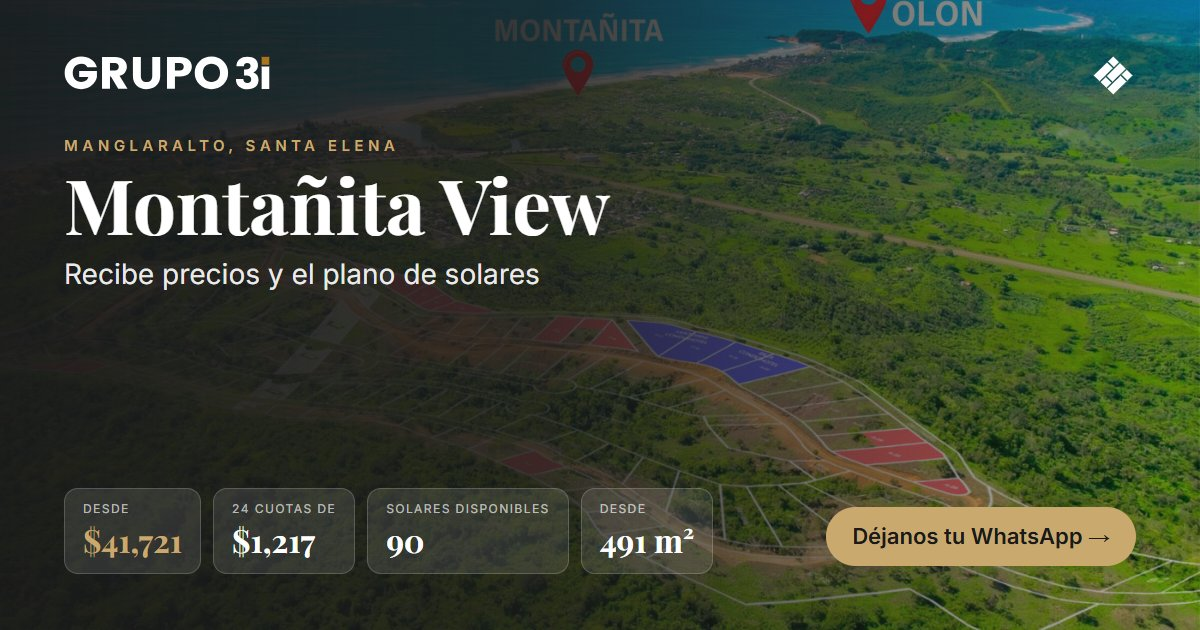
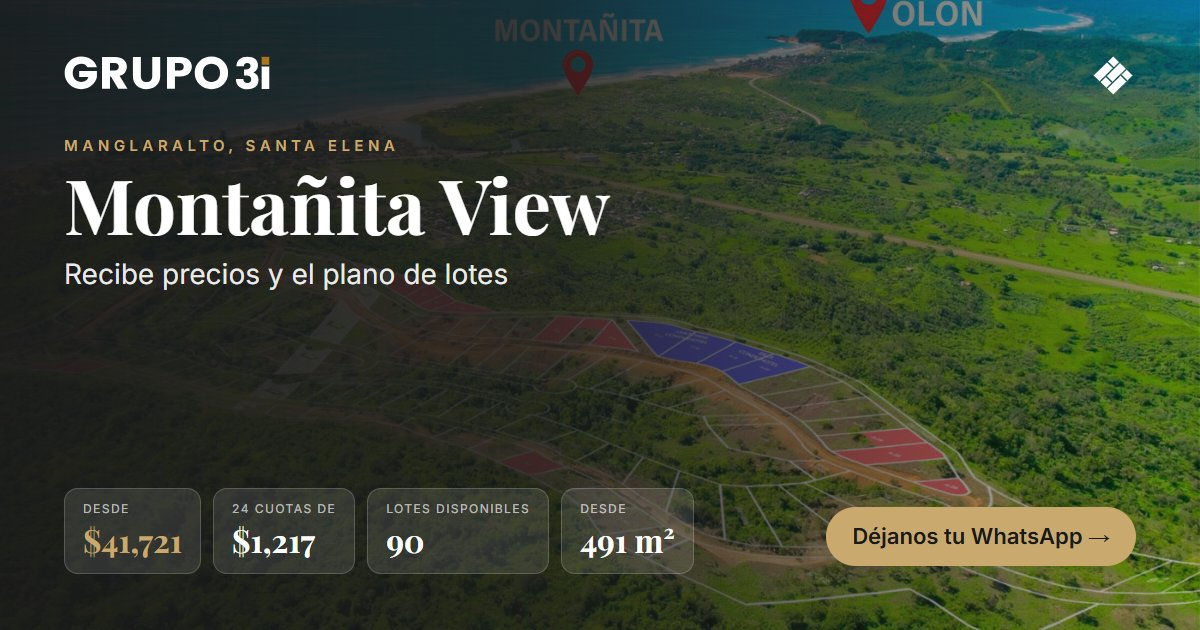
Lotes: título genérico del sitio y vistas previas de las páginas de aterrizaje

Changed region(s): [[0.3083, 0.754, 0.5858, 0.9349], [0.37, 0.4222, 0.4625, 0.4524], [0.5858, 0.7841, 0.6167, 0.8143]]

diff --git a/frontend/dist/index.html b/frontend/dist/index.html
@@ -14,7 +14,7 @@
     <title>Grupo 3i — Inversión inmobiliaria en la costa ecuatoriana</title>
     <meta
       name="description"
-      content="Propiedad fraccionada, solares con vista al mar y membresías de viaje en la costa ecuatoriana."
+      content="Propiedad fraccionada, lotes con vista al mar y membresías de viaje en la costa ecuatoriana."
     />
 
     <!-- Open Graph / WhatsApp / Facebook / LinkedIn — estático porque estos
@@ -25,7 +25,7 @@
     <meta property="og:title" content="Grupo 3i — Inversión inmobiliaria en la costa ecuatoriana" />
     <meta
       property="og:description"
-      content="Propiedad fraccionada, solares con vista al mar y membresías de viaje en la costa ecuatoriana."
+      content="Propiedad fraccionada, lotes con vista al mar y membresías de viaje en la costa ecuatoriana."
     />
     <meta property="og:image" content="https://grupo3i.com/images/og-cover.png" />
     <meta property="og:image:secure_url" content="https://grupo3i.com/images/og-cover.png" />
@@ -40,7 +40,7 @@
     <meta name="twitter:title" content="Grupo 3i — Inversión inmobiliaria en la costa ecuatoriana" />
     <meta
       name="twitter:description"
-      content="Propiedad fraccionada, solares con vista al mar y membresías de viaje en la costa ecuatoriana."
+      content="Propiedad fraccionada, lotes con vista al mar y membresías de viaje en la costa ecuatoriana."
     />
     <meta name="twitter:image" content="https://grupo3i.com/images/og-cover.png" />
 

diff --git a/frontend/index.html b/frontend/index.html
@@ -14,7 +14,7 @@
     <title>Grupo 3i — Inversión inmobiliaria en la costa ecuatoriana</title>
     <meta
       name="description"
-      content="Propiedad fraccionada, solares con vista al mar y membresías de viaje en la costa ecuatoriana."
+      content="Propiedad fraccionada, lotes con vista al mar y membresías de viaje en la costa ecuatoriana."
     />
 
     <!-- Open Graph / WhatsApp / Facebook / LinkedIn — estático porque estos
@@ -25,7 +25,7 @@
     <meta property="og:title" content="Grupo 3i — Inversión inmobiliaria en la costa ecuatoriana" />
     <meta
       property="og:description"
-      content="Propiedad fraccionada, solares con vista al mar y membresías de viaje en la costa ecuatoriana."
+      content="Propiedad fraccionada, lotes con vista al mar y membresías de viaje en la costa ecuatoriana."
     />
     <meta property="og:image" content="https://grupo3i.com/images/og-cover.png" />
     <meta property="og:image:secure_url" content="https://grupo3i.com/images/og-cover.png" />
@@ -40,7 +40,7 @@
     <meta name="twitter:title" content="Grupo 3i — Inversión inmobiliaria en la costa ecuatoriana" />
     <meta
       name="twitter:description"
-      content="Propiedad fraccionada, solares con vista al mar y membresías de viaje en la costa ecuatoriana."
+      content="Propiedad fraccionada, lotes con vista al mar y membresías de viaje en la costa ecuatoriana."
     />
     <meta name="twitter:image" content="https://grupo3i.com/images/og-cover.png" />
 
